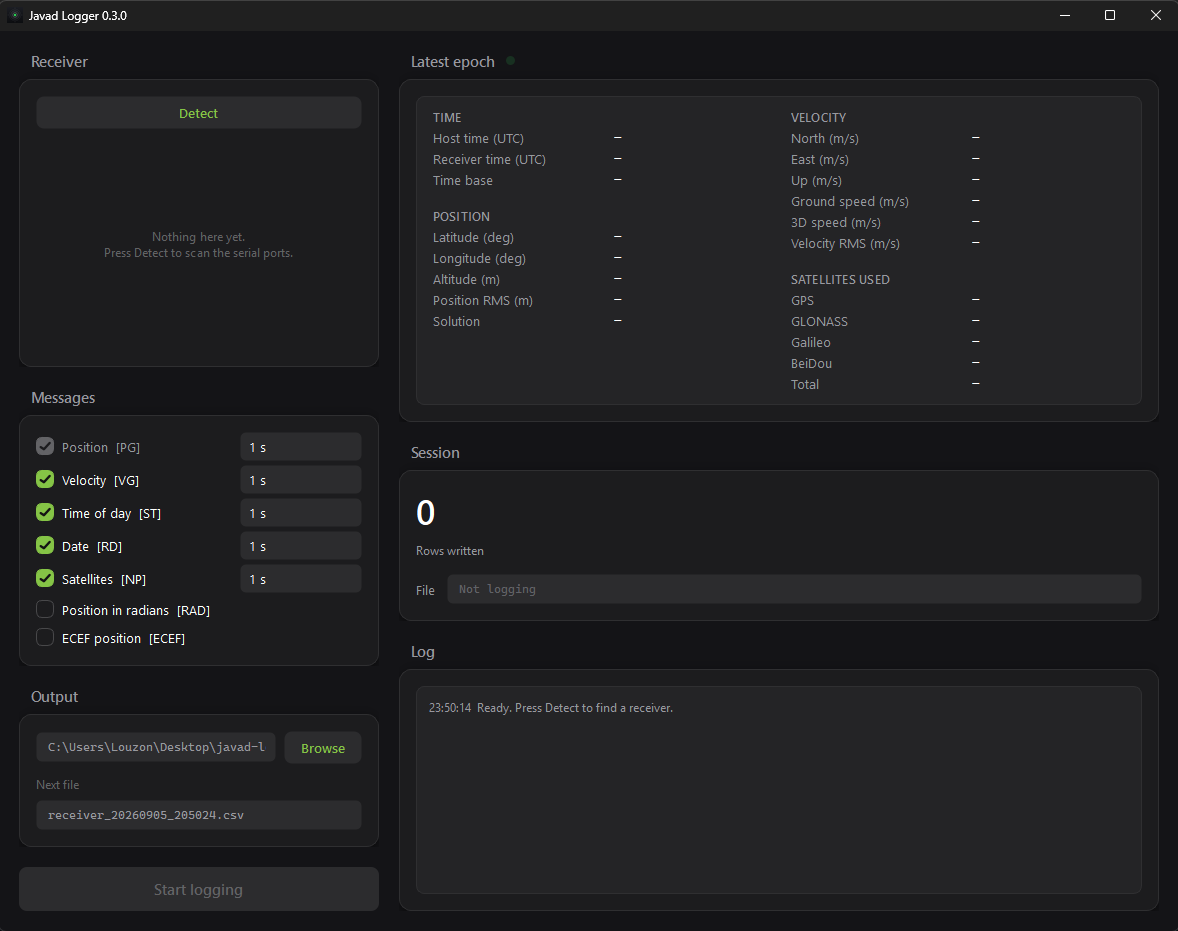
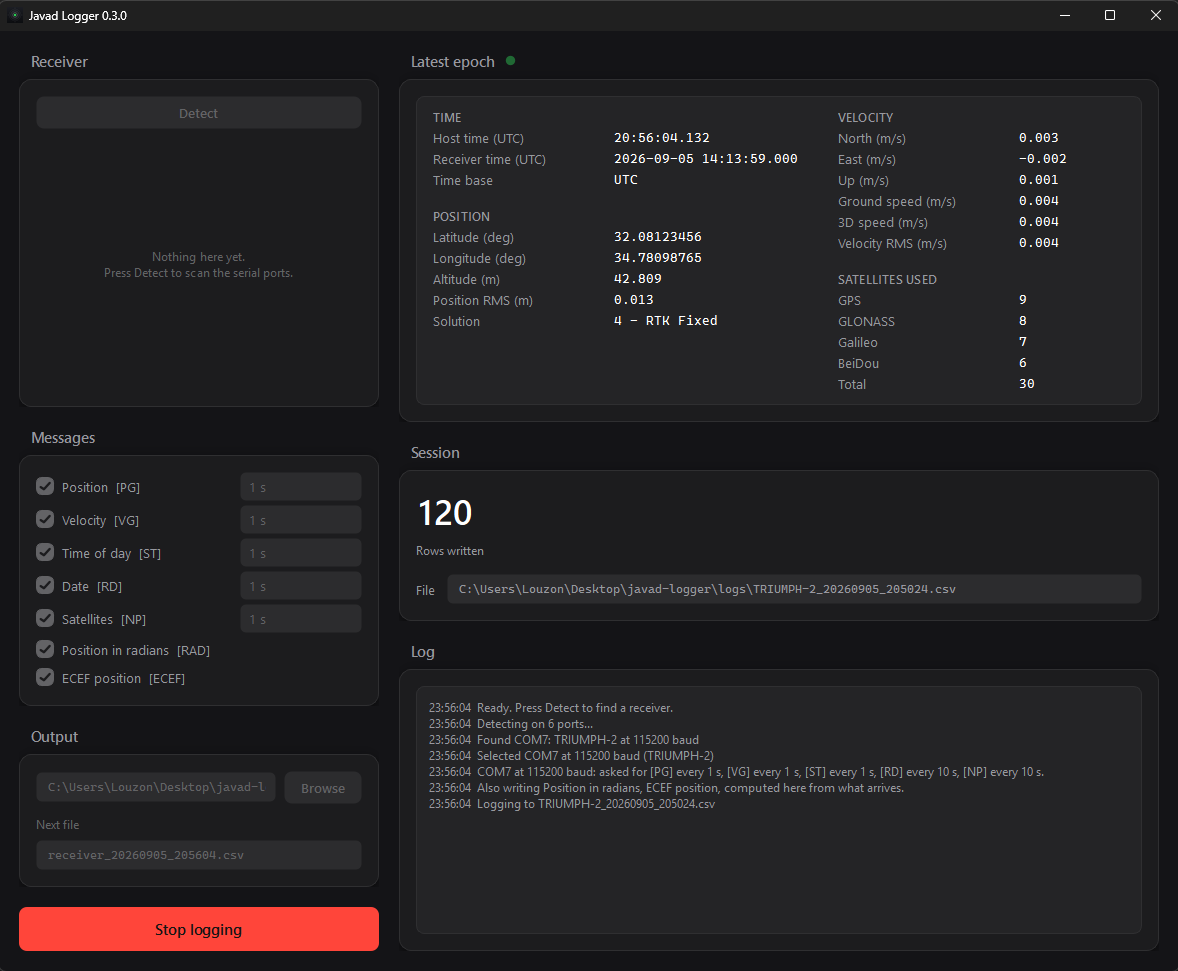
Show both applications on the page, with real values in them
The desktop screenshot was of an empty window - "Nothing here yet" and a
column of em dashes - which shows the layout and nothing about what the
tool does. It now shows a session mid-flight, and none of it is typed in:
the recorded GREIS stream already in the repository is fed through the
same parser the application uses, and the window draws what comes out.
Only the source of the bytes is a file rather than a cable.

The iPhone screenshots are from the device, running the same recording.
They are also the first evidence in this repository that the iOS build
runs at all - until now every claim about it stopped at "it compiles".

diff --git a/README.md b/README.md
@@ -14,7 +14,15 @@
 ![Swift](https://img.shields.io/badge/Swift-6-informational?style=flat-square)
 ![tests](https://img.shields.io/badge/tests-229%20%2B%2050-85c446?style=flat-square)
 
-<img src="assets/screenshot.png" width="820" alt="חלון האפליקציה: בחירת מקלט, סימון הודעות, וערכים חיים">
+<img src="assets/screenshot.png" width="820" alt="חלון האפליקציה: מקלט, סימון הודעות, וערכים חיים">
+
+<sub>הערכים בתמונה מפוענחים על ידי הפרסר האמיתי מזרם GREIS מוקלט שנמצא ב-repo, לא מוקלדים.</sub>
+
+<br>
+
+<img src="assets/screenshot-iphone.png" width="820" alt="אפליקציית האייפון: Link, Log ו-Recording">
+
+<sub>גרסת האייפון, רצה על מכשיר, מנגנת את אותה הקלטה.</sub>
 
 </div>
 
